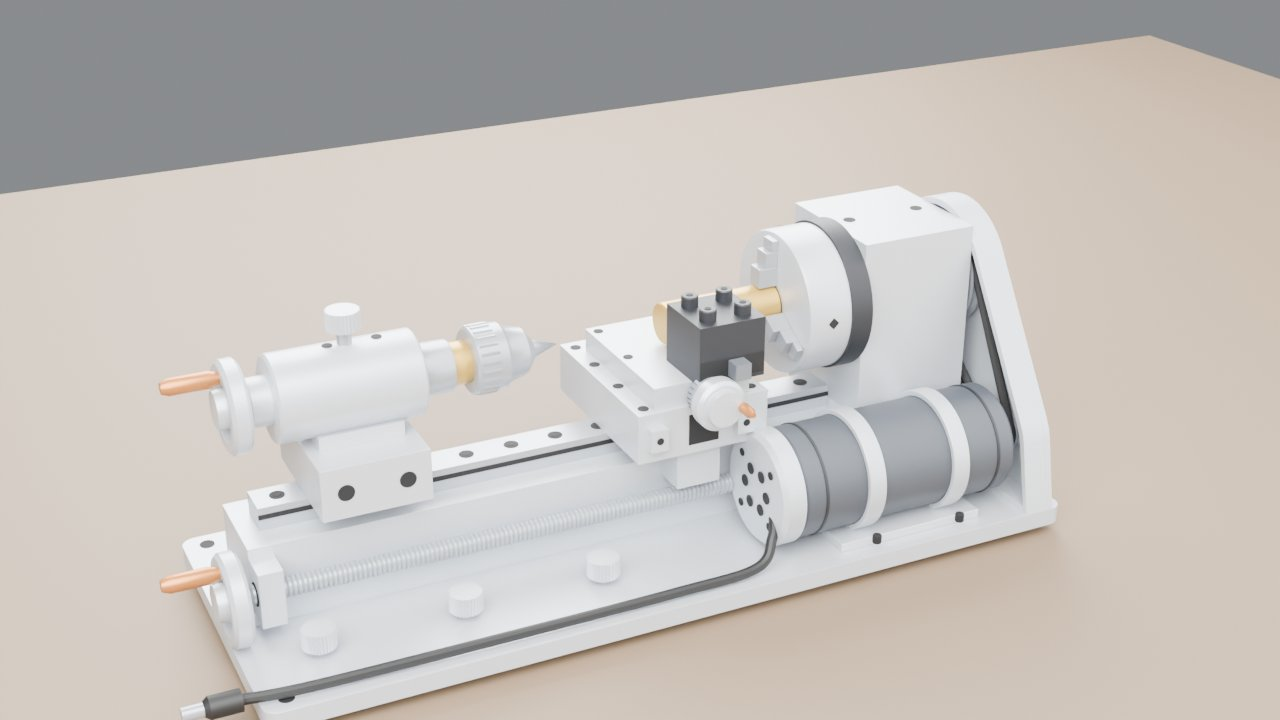
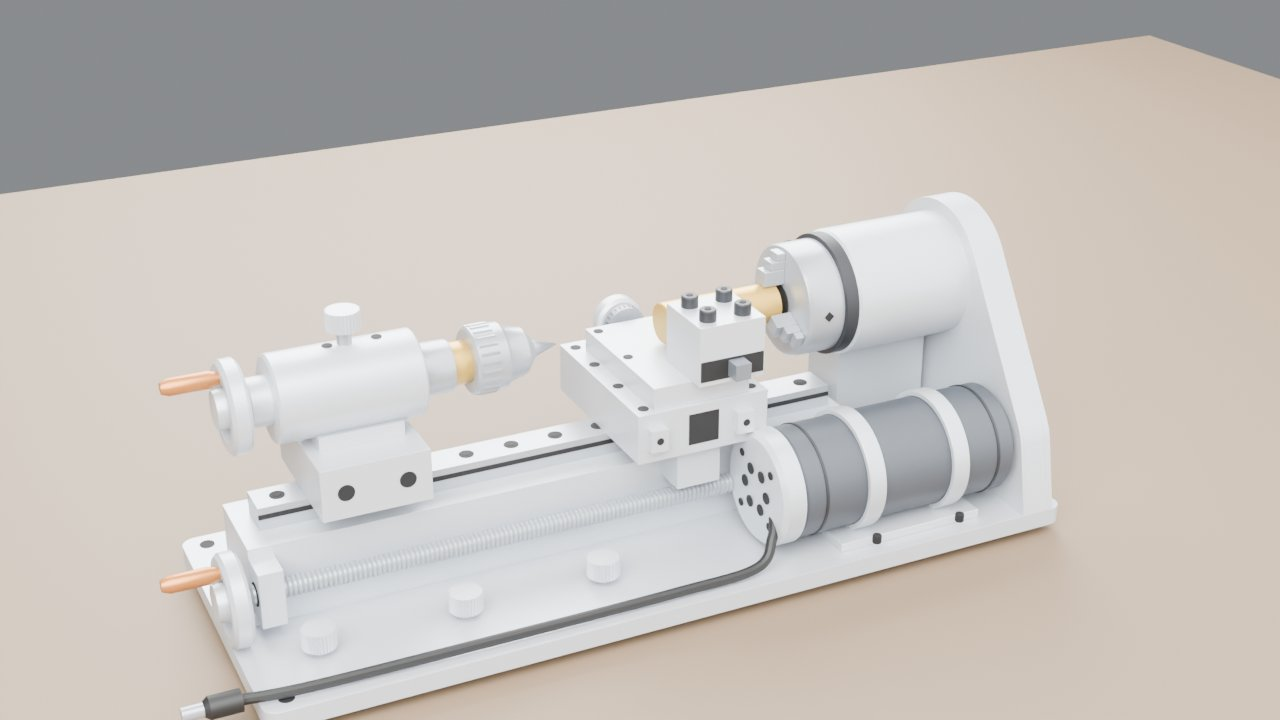
迷你车床爆炸图: 对照产品图修改：主轴箱改成横放圆筒、Φ50 钢卡盘、银色刀架、刻度手轮挪到后面、皮带罩两面封闭

Changed region(s): [[0.4688, 0.2444, 0.8125, 0.7028]]

diff --git a/迷你车床爆炸图/build_lathe.py b/迷你车床爆炸图/build_lathe.py
@@ -4,7 +4,7 @@
 
 照着一台常见的 8 合 1 迷你桌面车床（铝合金底板 + 直线导轨床身）的产品图建的，没有图纸，尺寸都是按比例估的：
     整机长约 37 cm（含两个手轮把手和 DC 插头），高约 13.5 cm；
-    卡盘 Φ64、中心高（主轴轴线离底板顶面）87 mm，手轮 Φ38（约为卡盘的 0.6 倍）。
+    卡盘 Φ50、中心高（主轴轴线离底板顶面）87 mm，手轮 Φ38。
 估算依据见 README.md。
 
 用法（一般不用手动跑，双击 启动.bat 即可）:
@@ -493,15 +493,15 @@ INFO = {
     4: ('直线导轨', 'GCr15 轴承钢，淬火磨削', '拖板和尾座都骑在这根导轨上左右滑动。一排沉孔是固定导轨的螺钉孔。'),
     5: ('丝杠', '45 钢，梯形螺纹 T8 × 2', '转动左端手轮，丝杠带着拖板下面的螺母左右走，就是"纵向进给"：车刀沿工件轴线走一刀。'),
     6: ('纵向进给手轮', '铝合金手轮 + 黄铜手柄', '装在丝杠左端。摇一圈拖板走 2 mm（一个螺距），手摇的快慢就是进给速度。'),
-    7: ('主轴箱', '6061 铝合金', '里面一对轴承撑住主轴，让主轴只能转、不能晃。主轴箱和床身的对中决定了车出来的是圆柱还是锥。'),
+    7: ('主轴箱', '6061 铝合金主轴套 + 立板', '里面一对轴承撑住主轴，让主轴只能转、不能晃。主轴箱和床身的对中决定了车出来的是圆柱还是锥。'),
     8: ('主轴', '40Cr 钢，调质', '左端装卡盘，右端装皮带轮。电机通过皮带带它转，工件跟着一起转。'),
-    9: ('三爪卡盘', '铝合金盘体 + 黑色钢背板', '拧卡盘侧面的方孔，三个卡爪同步向中心收紧，工件自动对中夹牢。'),
+    9: ('三爪卡盘', '钢制盘体 + 黑色连接盘', '拧卡盘侧面的方孔，三个卡爪同步向中心收紧，工件自动对中夹牢。'),
     10: ('卡爪', '45 钢，淬火', '三个卡爪由卡盘里的平面螺纹盘同时推动，所以总是一起进、一起退，自动定心。台阶面可以反夹大直径工件。'),
     11: ('工件（黄铜棒）', 'H59 黄铜 Φ18', '被卡盘夹住跟着主轴转，车刀从侧面切下一层层铜屑。黄铜软、切屑短，最适合小车床练手。'),
     12: ('拖板（大拖板）', '6061 铝合金', '骑在导轨上，由丝杠带着左右走。前面的方孔和两个小块是燕尾滑块的压板，顶上是安装十字滑台的螺孔。'),
     13: ('十字滑台（中拖板）', '6061 铝合金', '在拖板上前后移动，控制车刀切进工件多深（横向进给 = 吃刀深度）。'),
     14: ('横向刻度手轮', '铝合金 + 刻度环', '摇它让十字滑台前后走。刻度环一格 0.02 mm：车刀往里进 0.1 mm，工件直径就小 0.2 mm。'),
-    15: ('四方刀架', '45 钢，发黑', '四个面都能夹车刀，转 90° 就换一把刀，不用重新对刀。'),
+    15: ('四方刀架', '6061 铝合金 + 黑色内六角压紧螺钉', '四个面都能夹车刀，转 90° 就换一把刀，不用重新对刀。'),
     16: ('刀架压紧螺钉', '12.9 级内六角螺钉', '从上往下把车刀压在刀架里。车刀伸出越短越不容易振。'),
     17: ('车刀', '高速钢 HSS 8 × 8', '刀尖要对准主轴中心高：高了会顶、低了会啃。'),
     18: ('尾座', '6061 铝合金', '骑在导轨上，可以沿床身滑到任意位置再锁紧。里面的套筒能前后伸缩，用来顶住长工件或者钻孔。'),
@@ -566,7 +566,7 @@ EX = dict(
     handwheel_z=[(-40, 0, 0, .06)],
     toolpost=[(0, 0, 55, .10)],
     tool=[(0, 0, 55, .10), (0, -30, 0, .16)],
-    cross_wheel=[(0, -35, 0, .14)],
+    cross_wheel=[(0, 35, 0, .14)],
     cross_slide=[(0, 0, 30, .20)],
     work=[(0, -60, 0, .24)],
     carriage=[(0, 0, 10, .28)],
@@ -643,18 +643,14 @@ def build_leadscrew(M):
 
 
 def build_headstock(M):
+    """照片里的主轴箱：一个横放的铝圆筒（主轴套），坐在皮带罩前面的立板上"""
     mats = [M['alu'], M['hole'], M['steel']]
     bm = bmesh.new()
-    boxf(bm, (95, -25, BT), (150, 35, 130), 0)
-    rev(bm, [(16, 0), (23, 0), (23, 2.5), (16, 2.5)], 0, '-X', (95, 0, CZ), seg=48, closed=True)   # 轴承压盖
-    for k in range(4):
-        a = pi / 4 + k * pi / 2
-        disk(bm, 2, (92.5, 19.5 * cos(a), CZ + 19.5 * sin(a)), '-X', 1)
-    for y, z in ((-12, 30), (22, 30), (-12, 118), (22, 118)):     # 前面、顶面的螺钉
-        disk(bm, 2.8, (95, y, z), '-X', 1)
-    for x in (105, 140):
-        disk(bm, 2.8, (x, 5, 130), 'Z', 1)
-    finish('P07_Headstock', 7, bm, mats, ex=EX['headstock'], bevel=1.5)
+    rev(bm, [(0, 92), (27, 92), (28, 93), (28, 149), (27, 150), (0, 150)], 0, 'X', (0, 0, CZ), seg=64)   # 主轴套
+    boxf(bm, (100, 0, BT), (146, 26, CZ - 12), 0)                                                         # 立板
+    for k in range(4):                                                                                    # 后面的锁紧螺钉
+        disk(bm, 2.2, (104 + k * 12, 26, CZ - 30), 'Y', 1)
+    finish('P07_Headstock', 7, bm, mats, ex=EX['headstock'], bevel=1.0)
 
     bm = bmesh.new()
     rev(bm, [(0, 0), (7, 0), (8, 1), (8, 88), (0, 88)], 0, 'X', (70, 0, CZ), seg=32)
@@ -663,29 +659,29 @@ def build_headstock(M):
 
 def build_chuck(M):
     bm = bmesh.new()
-    rev(bm, [(0, 85), (33, 85), (33, 95), (0, 95)], 1, 'Z', seg=64)                 # 黑色背板
-    rev(bm, [(0, 64), (28, 64), (31.5, 65), (32, 67), (32, 85), (0, 85)], 0, 'Z', seg=64)   # 盘体
-    xform(bm, bm.faces, Matrix.Translation(Vector((0, 0, CZ))) @ ROT['X'] @ Matrix.Translation(Vector((0, 0, 0))))
+    rev(bm, [(0, 86), (27, 86), (27, 92), (0, 92)], 1, 'Z', seg=64)                  # 黑色连接盘
+    rev(bm, [(0, 68), (22, 68), (24.5, 69), (25, 71), (25, 86), (0, 86)], 0, 'Z', seg=64)   # 盘体
+    xform(bm, bm.faces, Matrix.Translation(Vector((0, 0, CZ))) @ ROT['X'])
     # ROT['X'] 把局部 Z 转成 X：上面两段沿轴坐标就是 X
-    disk(bm, 9.5, (63.7, 0, CZ), '-X', 2, h=.35)                                          # 中心孔
+    disk(bm, 8, (67.7, 0, CZ), '-X', 2, h=.35)                                            # 中心孔
     for k in range(3):                                                                    # 侧面 3 个扳手方孔
         a = pi / 3 + 2 * pi * k / 3
         d = Vector((0, cos(a), sin(a)))
-        c = Vector((76, 0, CZ)) + d * 31.8
-        fs = rod(bm, 2.6, 0, .5, 2, 'Z', (0, 0, 0), seg=4)
+        c = Vector((78, 0, CZ)) + d * 24.8
+        fs = rod(bm, 2.4, 0, .5, 2, 'Z', (0, 0, 0), seg=4)
         mt = Matrix.Translation(c) @ d.to_track_quat('Z', 'X').to_matrix().to_4x4()
         xform(bm, fs, mt)
-    finish('P09_Chuck', 9, bm, [M['alu'], M['black'], M['hole']], ex=EX['chuck'], bevel=.6)
+    finish('P09_Chuck', 9, bm, [M['steel'], M['black'], M['hole']], ex=EX['chuck'], bevel=.6)
 
     for k in range(3):
         a = pi / 2 + 2 * pi * k / 3
         d = Vector((0, cos(a), sin(a)))
         t = Vector((0, -sin(a), cos(a)))
         bm = bmesh.new()
-        # 局部坐标：x = 轴向（主轴 X），y = 径向，z = 切向
-        boxf(bm, (55, 9, -4), (64, 18, 4), 0)
-        boxf(bm, (58, 18, -4), (64, 25, 4), 0)
-        boxf(bm, (61, 25, -4), (64, 30, 4), 0)
+        # 局部坐标：x = 轴向（主轴 X），y = 径向，z = 切向。台阶爪：越往外越短
+        boxf(bm, (58, 9, -3.5), (68, 16, 3.5), 0)
+        boxf(bm, (61, 16, -3.5), (68, 20, 3.5), 0)
+        boxf(bm, (64, 20, -3.5), (68, 23.5, 3.5), 0)
         mt = Matrix(((1, 0, 0, 0), (0, d.y, t.y, 0), (0, d.z, t.z, CZ), (0, 0, 0, 1)))
         xform(bm, bm.faces, mt)
         ex = [(0, 18 * d.y, 18 * d.z, .30)] + EX['chuck']
@@ -718,8 +714,8 @@ def build_carriage(M):
     finish('P13_CrossSlide', 13, bm, mats, ex=EX['cross_slide'], bevel=.8)
 
     bm = bmesh.new()
-    rod(bm, 2.5, 0, 6, 1, '-Y', (10, -38, 85), seg=16)           # 轴
-    rev(bm, [(0, 0), (9, 0), (9, 5), (0, 5)], 2, '-Y', (10, -42, 85), seg=48)    # 刻度环
+    rod(bm, 2.5, 0, 6, 1, 'Y', (10, 30, 85), seg=16)           # 轴
+    rev(bm, [(0, 0), (9, 0), (9, 5), (0, 5)], 2, 'Y', (10, 34, 85), seg=48)    # 刻度环
     fs = []
     for k in range(25):                                          # 刻度线
         a = 2 * pi * k / 25
@@ -729,16 +725,16 @@ def build_carriage(M):
         bmesh.ops.scale(bm, vec=Vector((.35, 2.5, L)), verts=vs)
         bmesh.ops.translate(bm, vec=Vector((0, 0, 9 - L / 2 + .2)), verts=vs)
         bmesh.ops.rotate(bm, cent=Vector((0, 0, 0)), matrix=Matrix.Rotation(a, 3, 'Y'), verts=vs)
-        bmesh.ops.translate(bm, vec=Vector((10, -43.5, 85)), verts=vs)
+        bmesh.ops.translate(bm, vec=Vector((10, 36.5, 85)), verts=vs)
         for f in {f for v in vs for f in v.link_faces}:
             f.material_index = 1
-    handwheel(bm, 11, (10, -47, 85), '-Y', 0, 3, handle_len=12, handle_r=2.3)
+    handwheel(bm, 11, (10, 39, 85), 'Y', 0, 3, handle_len=12, handle_r=2.3)
     finish('P14_CrossWheel', 14, bm, [M['alu'], M['black'], M['alu_dark'], M['copper']], ex=EX['cross_wheel'], smooth=40)
 
     bm = bmesh.new()
     boxf(bm, (5, -45, 90), (35, -15, 116), 0)
     boxf(bm, (5.5, -45.3, 92), (34.5, -45, 101), 1)            # 正面夹刀槽
-    finish('P15_ToolPost', 15, bm, [M['black'], M['hole']], ex=EX['toolpost'], bevel=.8)
+    finish('P15_ToolPost', 15, bm, [M['alu'], M['hole']], ex=EX['toolpost'], bevel=.8)
 
     for i, (x, y) in enumerate(((12, -38), (28, -38), (12, -22), (28, -22))):
         bm = bmesh.new()
@@ -800,6 +796,7 @@ def build_drive(M):
     bm = bmesh.new()
     extrude(bm, [outer, inner[::-1]], 150, 161, 0, axis='X')
     extrude(bm, [outer], 161, 164, 0, axis='X')
+    extrude(bm, [outer], 148.5, 150, 0, axis='X')
     for y, z in ((0, CZ), (MOT[0], MOT[1])):
         disk(bm, 2.6, (164, y, z), 'X', 1)
     finish('P22_BeltCover', 22, bm, [M['alu'], M['hole']], ex=EX['cover'], bevel=1.0)

diff --git a/迷你车床爆炸图/README.md b/迷你车床爆炸图/README.md
@@ -1,7 +1,7 @@
 # 迷你车床爆炸图（Blender 脚本建模 + 爆炸图）
 
-一台常见的 8 合 1 迷你桌面金属车床（铝合金底板 + 直线导轨床身，24 V 直流电机皮带传动），照着产品图用 `build_lathe.py` 在 Blender 里全部用代码生成。
-没有图纸，尺寸都是按比例估的（见下面「尺寸怎么估的」）。同一份模型导进了虚幻工程 MyVRToyBox，在 VR 里可以拆开、一个个零件拿起来看。
+一台常见的 8 合 1 迷你桌面金属车床（铝合金底板 + 直线导轨床身，24 V 直流电机皮带传动），照着 4 张产品图（正面、两个斜前方、俯斜视）用 `build_lathe.py` 在 Blender 里全部用代码生成。
+没有图纸，尺寸都是按比例估的（见下面「尺寸怎么估的」）。内部（轴承、燕尾导轨、皮带）看不到，按这类车床的常见结构补的。同一份模型导进了虚幻工程 MyVRToyBox，在 VR 里可以拆开、一个个零件拿起来看。
 
 | 装配 | 爆炸 |
 |---|---|
@@ -50,9 +50,9 @@
 产品图没给尺寸，只能靠零件之间的比例 + 这类小车床的常见规格：
 
 - **整机长 ≈ 37 cm**：这类 8 合 1 迷你车床的底板一般 35~38 cm，加上左边两个手轮的把手、DC 插头，取 38.8 cm（模型包围盒 388 × 140 × 134 mm）。
-- **长 ≈ 高的 2.5~2.9 倍**：图里整机长大约是高度的 2.5 倍，模型是 388 / 134 ≈ 2.9（含把手和插头；只量底板 360 / 134 ≈ 2.7）。
-- **卡盘 Φ64**：小车床常配 Φ50~Φ65 的三爪卡盘；图里卡盘直径大约是主轴箱宽度的 1.1 倍。
-- **手轮 Φ38**：图里手轮直径约为卡盘的 0.6 倍（38 / 64 ≈ 0.6）。
+- **长 ≈ 高的 2.9 倍**：正面图里从左边手柄尖到皮带罩右边约 1080 像素、从脚垫底到皮带罩顶约 370 像素，比值 2.9；模型是 388 / 134 ≈ 2.9。
+- **卡盘 Φ50**：正面图里卡盘直径约占整机长的 13%（388 × 0.13 ≈ 50），这类小车床也常配 Φ50 的三爪卡盘；主轴套比卡盘稍粗（Φ56）。
+- **手轮 Φ38**：正面图里手轮直径约为卡盘的 0.75 倍。
 - **中心高 87 mm**（主轴轴线离底板顶面）：车刀刀尖要对准主轴中心，所以中心高 = 导轨 + 大拖板 + 十字滑台 + 刀架下半截的高度加起来，再留出卡盘半径到底板的余量。
 - **电机 Φ48 × 116**：常见 775 直流电机外径约 Φ45~Φ50；皮带轮 Φ48 : Φ18 ≈ 2.7 : 1 减速。
 
